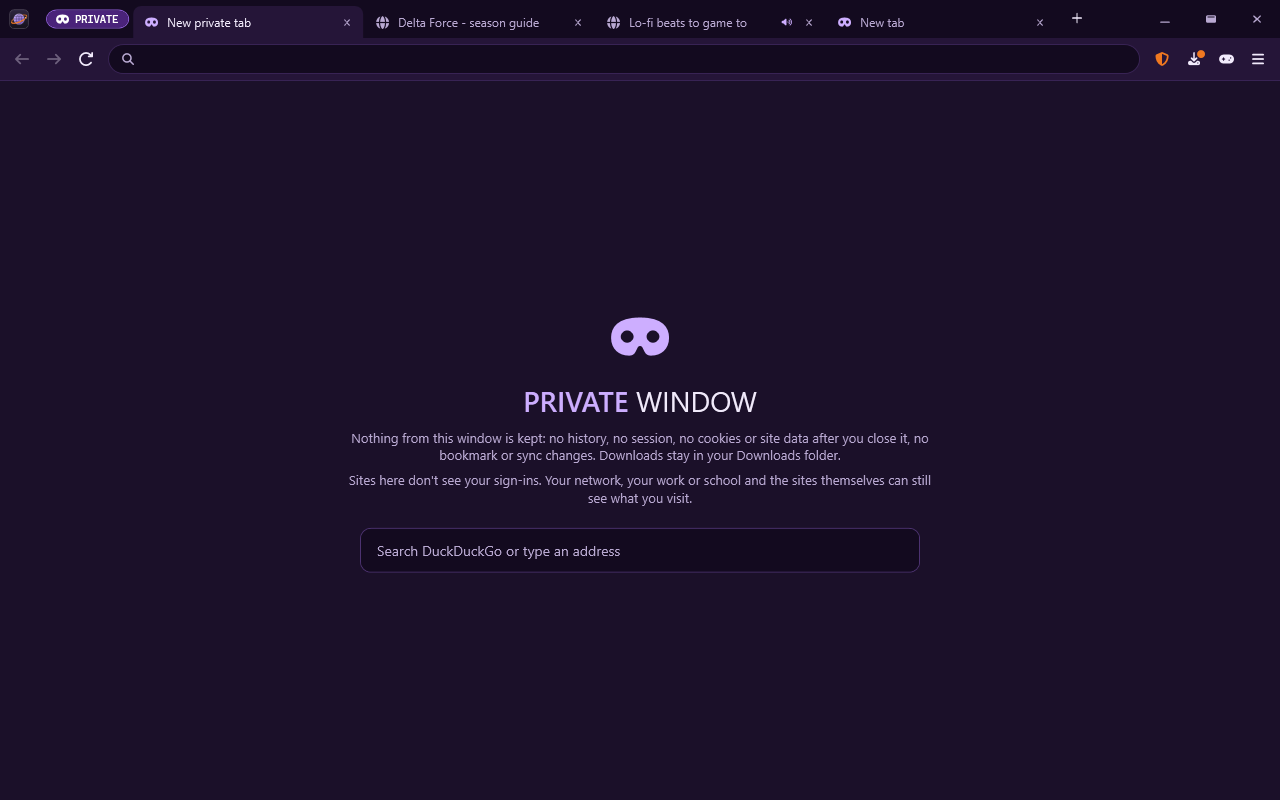
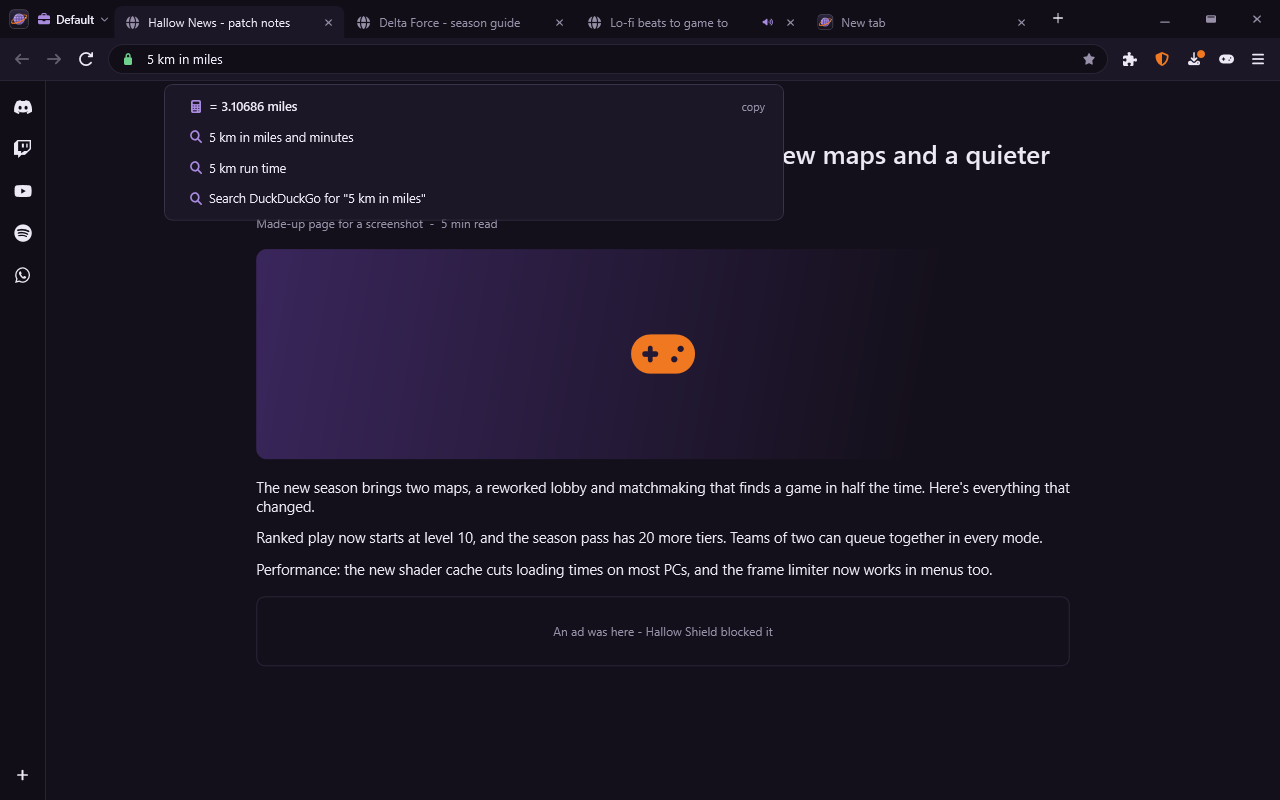
Hallow Browser card: 1.5 - save logins to Keys, smarter address bar, dark pages, safer downloads, media controls

diff --git a/index.html b/index.html
@@ -210,8 +210,9 @@
         <h3><b>HALLOW</b> BROWSER</h3>
         <div class="what">A fast Chromium browser for gamers, with Hallow Shield built in</div>
         <ul>
-          <li>New in 1.4: real windows (Ctrl+N, drag a tab out), private windows that keep nothing, and sites that ask before using your camera, mic or location</li>
-          <li>HTTPS-only mode, secure DNS (Cloudflare, Quad9 or Google), your own unpacked extensions, and Shield's "blocked on this page" count</li>
+          <li>New in 1.5: "Save to Hallow Keys?" after you sign in, a calculator, keywords and tab search in the address bar, and dark pages for any site</li>
+          <li>Downloads you can pause, slow down while you play and have checked by Microsoft Defender; hover previews, mouse gestures, media controls for every tab, and "This tab crashed - Reload"</li>
+          <li>Real windows (Ctrl+N, drag a tab out), private windows that keep nothing, site permissions, HTTPS-only mode, secure DNS and your own extensions</li>
           <li>Move in from Chrome, Edge, Brave, Opera, Opera GX, Vivaldi or Firefox; a bookmarks manager and bar, folder sync and a speed-dial new tab page</li>
           <li>Vertical tabs, tab groups and workspaces; Ctrl+K finds any tab, page, bookmark or setting; split view, screenshots and reader mode</li>
           <li>A gamer sidebar - Discord, Twitch, YouTube, Spotify, WhatsApp or any site, signed in beside the page - plus live alerts and a Hot tabs list</li>
@@ -222,7 +223,7 @@
         </ul>
         <div class="links"><a href="https://github.com/Dom428/hallow-browser/releases/latest">Download</a><a href="https://github.com/Dom428/hallow-browser">More</a></div>
       </div>
-      <div class="shot"><img src="img/browser.png" alt="Hallow Browser 1.4: a private window (made-up page)" loading="lazy"></div>
+      <div class="shot"><img src="img/browser.png" alt="Hallow Browser 1.5: the address bar's answer to 5 km in miles (made-up page)" loading="lazy"></div>
     </div>
     <div class="app">
       <div>
